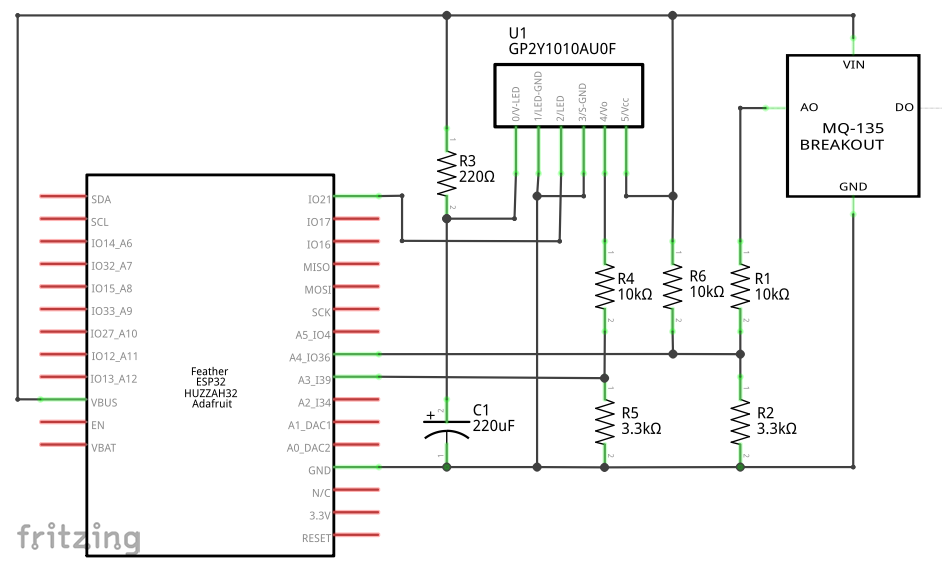
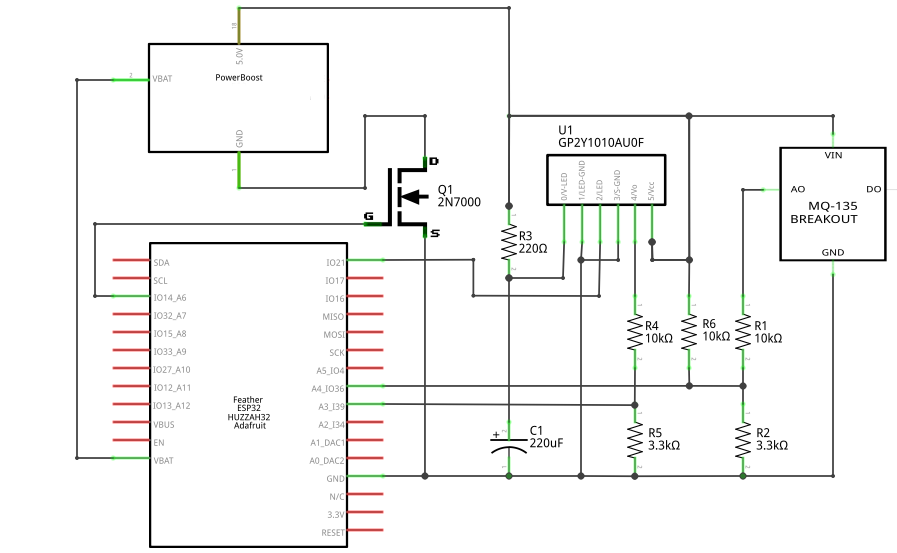
added air quality ardiono blog post

Changed region(s): [[0.0, 0.0, 0.9989, 1.0], [0.9052, 0.83, 0.9365, 0.8608]]

diff --git a/categories/portfolio/_posts/2017-11-28-air-quality-sensor.md b/categories/portfolio/_posts/2017-11-28-air-quality-sensor.md
@@ -1,0 +1,136 @@
+---
+layout: post
+title: Arduino Air Quality Sensor
+image: /images/2017/11/arduino_airquality/airqualitybreadboard.png
+filter: fCode fVideo
+---
+
+I made an Air Quality Sensor with information dashboard and mobile notification functionality.
+
+Made with an Arduino ESP32, [IFTTT](http://ifttt.com), [io.adafruit](http://io.adafruit.com) and multiple sensors wires, and resistors.
+
+#### Why?
+Air pollution is responsible for 7 million premature deaths around the world each year. When breathed in, pollutants can be absorbed in the blood and travel throughout the body and can damage the heart and other vital organs.
+
+So on that dark note... how do we get better air?!
+
+Air pollution sensors can help individuals control their environments through increased awareness of what's in the air around them. With this awareness, individuals can change their day-to-day life in order to increase the quality of life and overall health of individuals.
+
+#### Design
+<img src="{{ site.baseurl }}/images/2017/11/arduino_airquality/airqualityraw.jpg" width="80%">
+
+1. **Arduino ESP32**
+  Low-power system on a chip (SoC) series with Wi-Fi & dual-mode Bluetooth capabilities. Enginereered for IoT devices.
+2. **MQ-135 Air Quality Hazardous Gas Detection Sensor**
+  This analog sensor can detect a variation of gasses, dependant on the resistance set, which configurable from the dial on the rear of the sensor.
+3. **GP2Y1010AU0F Optical Dust Sensor**
+  Designed to sense dust particles. An infrared emitting diode and a phototransistor are diagonally arranged into this device, to allow it to detect the reflected light of dust in air. Effective in detecting very fine particles found in smoke.
+4. **DC-DC Boost Module**
+  This module provides a stable 5 V from a single Lithium Ion Polymer Battery. (2.5V - 5V) 600 mA TO USB 5 V.
+5. **Lithium Ion Polymer Battery**
+  Thin, light and powerful. The output of the battery ranges from 4.2V when completely charged to 3.7V. This battery has a capacity of 1200mAh for a total of about 4.5 watt-hours.
+6. **Breadboard**
+  A simple terminal array board. Solderless breadboard does not require soldering, it is reusable.
+
+**Information**   
+* Data from the gas sensor is read from A4 analog pin.
+
+* Data from the dust sensor is read from A3 analog pin.
+
+* When the Lithium Ion Polymer Battery battery is connected to the ESP32 and no USB power is available, the USB pin does not provide power.
+  * The battery voltage is available at the BAT pin which is 4.2V and reduces to 3.3V when battery exhausts.
+
+  * As the sensors connected need 5V, a DC-DC booster is required to needed to boost the battery voltage to 5V.
+
+  * [DC-DC Boost Module](#dc-dc-boost-module) does this for us.
+
+**Schematics**      
+Drawings courtesy of Hamish Cunningham and Gareth Coleman.
+
+<img src="{{ site.baseurl }}/images/2017/11/arduino_airquality/airqualitybreadboard.png" width="80%">
+
+<img src="{{ site.baseurl }}/images/2017/11/arduino_airquality/airqualityschematic.png" width="80%">
+
+
+#### Capabilities
+**Internal**
+Simple pseudocode description of code process:
+```java
+...
+WAKE
+
+Setup analog pin allocation
+
+setup()
+  Search for WiFi network
+    Connect to WiFi
+
+  Connect to io.adafruit via MQTT
+    Connect to io.adafruit dust and gas feeds
+
+  Obtain analog reading from dust sensor from pin A3
+    Publish reading to io.adafruit dust sensor feed
+
+  Obtain analog reading from gas sensor from pin A4
+    Publish reading to io.adafruit gas sensor feed
+
+  Start sleep activation
+
+loop() //empty as all functioning happens in setup() then goes back to sleep
+
+SLEEP for x minutes
+...
+```
+
+**External**
+When the gas and dust sensor data is sent to io.adafruit, the data is stored in individual gas and dust 'feeds'. The data in the feeds can be visualised in a variation of ways on the io.adafruit [dashboard](#dashboard).
+
+Additonally, the data from the feeds can be read by IFTTT (IF This Then That). I created two 'applets' which moniter both gas and dust feeds in io.adafruit.
+
+The first applet sends me a [notification](#notifications) to my phone if the dust sensor reads a value larger than 100.
+
+The second applet sends me a [notification](#notifications) to my phone if the gas sensor reads a value larger than 1200.
+
+<table width="70%" border="0">
+  <tr>
+    <td colspan="2"><img src="{{ site.baseurl }}/images/2017/11/arduino_airquality/airqualityifttt.png" width="100%"></td>
+  </tr>
+  <tr>
+    <td><img src="{{ site.baseurl }}/images/2017/11/arduino_airquality/airqualityiftttdust.png"></td>
+    <td><img src="{{ site.baseurl }}/images/2017/11/arduino_airquality/airqualityiftttgas.png"></td>
+  </tr>
+</table>
+
+
+#### Operation
+**Dashboard**
+<table width="100%" border="0">
+  <tr>
+    <td><img src="{{ site.baseurl }}/images/2017/11/arduino_airquality/airqualityiodust.png"></td>
+  </tr>
+  <tr>
+    <td>
+      On this dashboard, we have two data feeds (gas and dust) - each presented in three different ways:
+      <ul>
+        <li>Data flow</li>
+        <li>Plotted line graph</li>
+        <li>Live gauge</li>
+      </ul>
+      <p>At a stable level, the gas sensor reads around 700. The increase on the most recent value is from deodorant sprayed near the sensor. The dust sensor's stable level is 0. The increase on the most recent value is from a thin object inserted between infrared sensors, imitating dust.</p>
+    </td>
+  </tr>
+</table>
+
+
+
+**Notifications**
+<table width="100%" border="0">
+  <tr>
+    <td><img src="{{ site.baseurl }}/images/2017/11/arduino_airquality/airqualityiphonedust.png"></td>
+    <td><img src="{{ site.baseurl }}/images/2017/11/arduino_airquality/airqualityiphonegas.png"></td>
+  </tr>
+  <tr>
+    <td>Notification from IFTTT when a high reading of dust is detected.</td>
+    <td>Notification from IFTTT when a high reading of gas is detected.</td>
+  </tr>
+</table>
